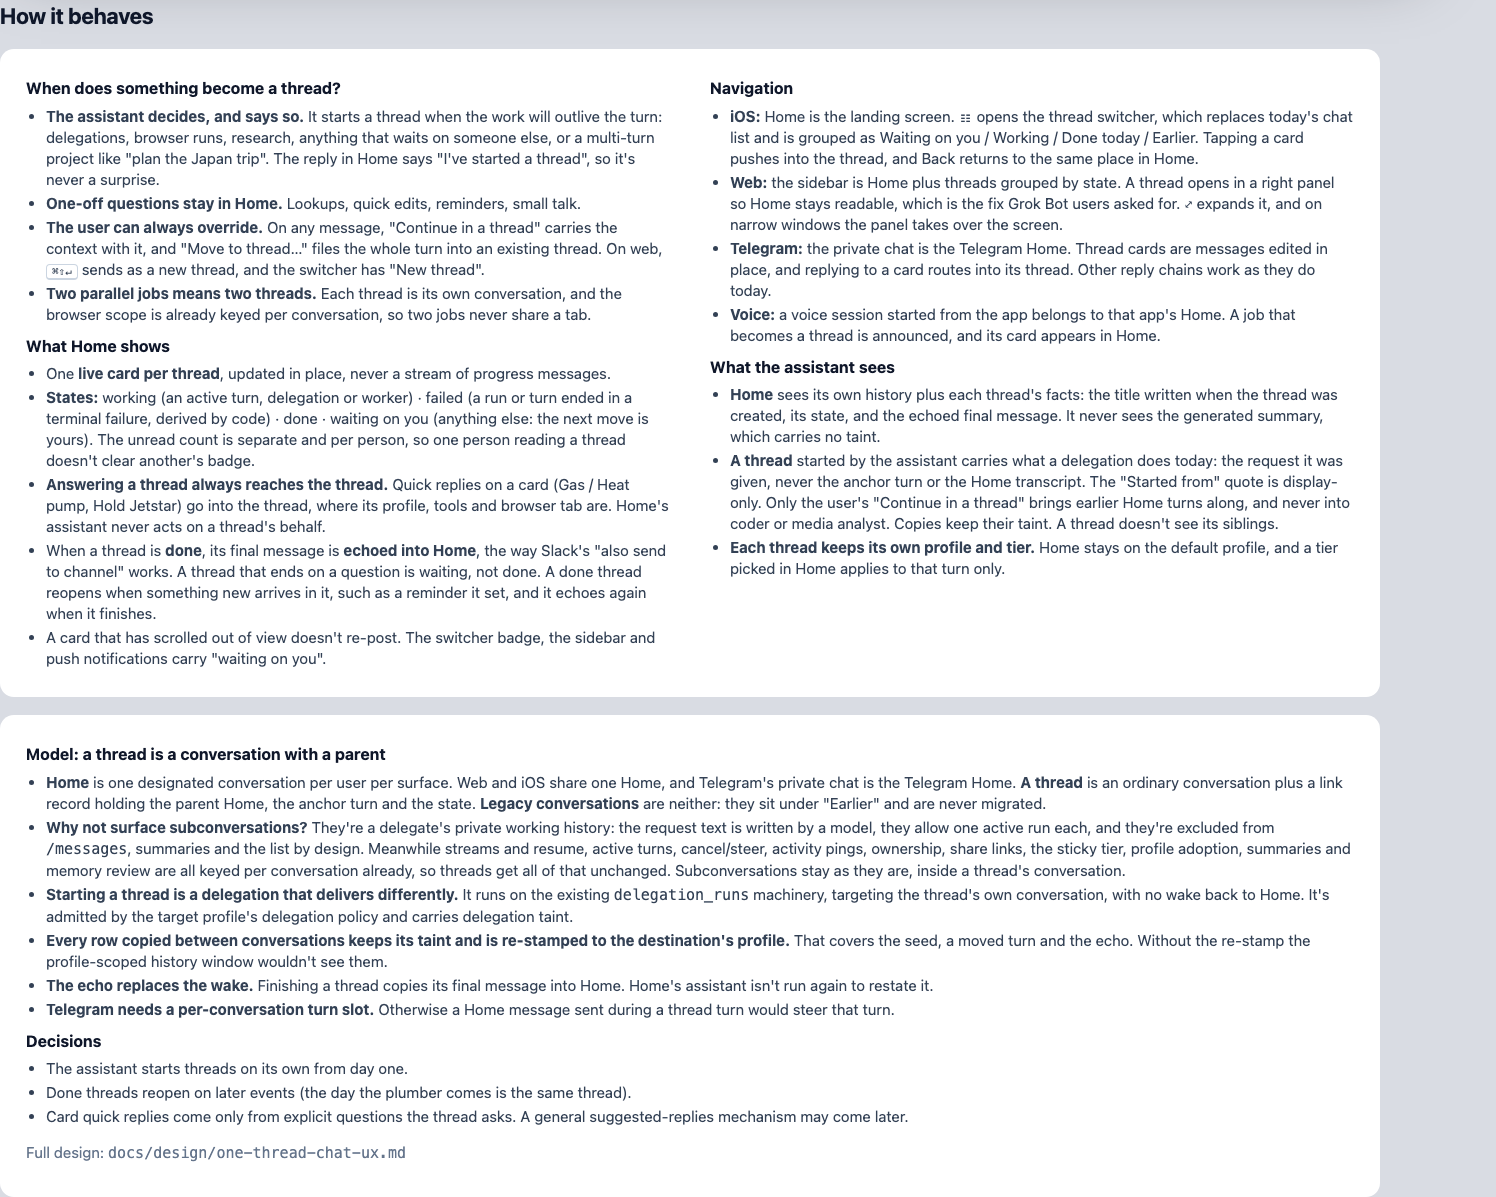
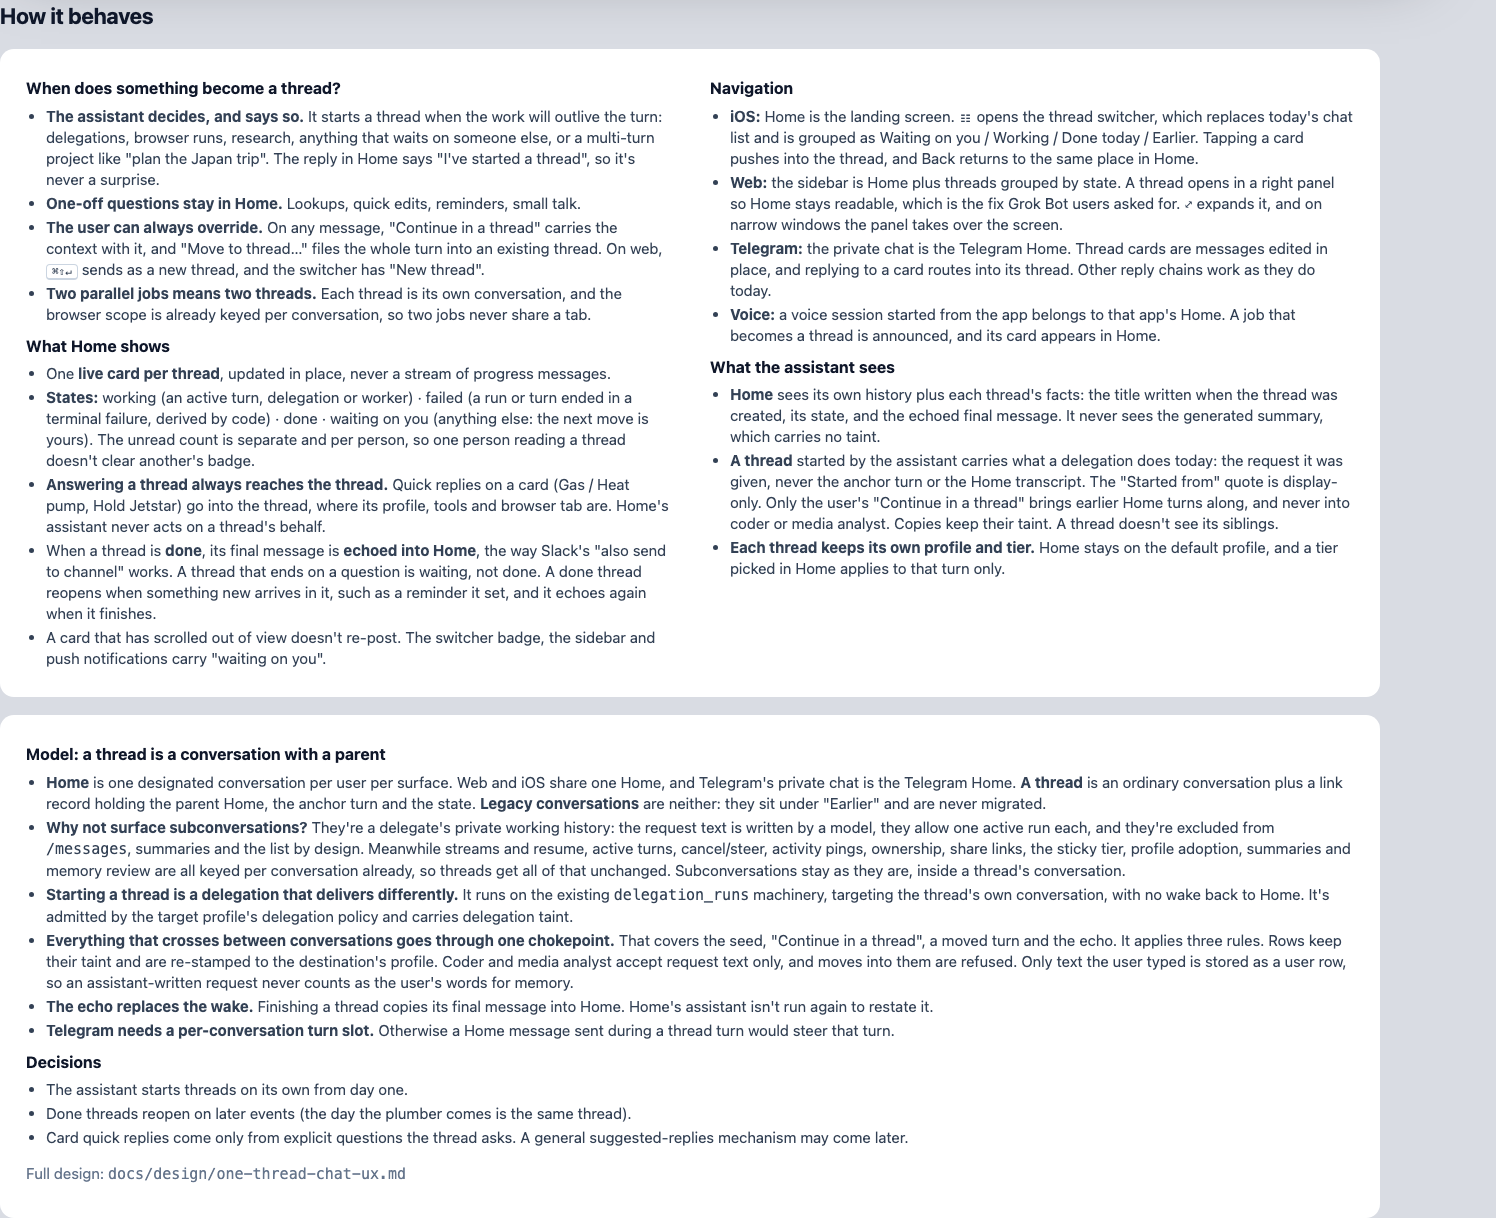
Route all cross-conversation content through one chokepoint
Seeds, continue-in-thread, moved turns and echoes share one gate: taint and
profile re-stamping, a context gate that refuses household content for
profiles that exclude it, and an authorship rule that keeps
assistant-written requests out of user rows and memory evidence.

Changed region(s): [[0.0, 0.0618, 0.9225, 0.9891]]

diff --git a/docs/design/one-thread-ux/mockups.html b/docs/design/one-thread-ux/mockups.html
@@ -529,9 +529,11 @@
       <li><b>Starting a thread is a delegation that delivers differently.</b> It runs on the existing
         <code>delegation_runs</code> machinery, targeting the thread's own conversation, with no wake back to Home.
         It's admitted by the target profile's delegation policy and carries delegation taint.</li>
-      <li><b>Every row copied between conversations keeps its taint and is re-stamped to the destination's
-        profile.</b> That covers the seed, a moved turn and the echo. Without the re-stamp the profile-scoped
-        history window wouldn't see them.</li>
+      <li><b>Everything that crosses between conversations goes through one chokepoint.</b> That covers the
+        seed, "Continue in a thread", a moved turn and the echo. It applies three rules. Rows keep their taint and
+        are re-stamped to the destination's profile. Coder and media analyst accept request text only, and moves
+        into them are refused. Only text the user typed is stored as a user row, so an assistant-written request
+        never counts as the user's words for memory.</li>
       <li><b>The echo replaces the wake.</b> Finishing a thread copies its final message into Home. Home's assistant
         isn't run again to restate it.</li>
       <li><b>Telegram needs a per-conversation turn slot.</b> Otherwise a Home message sent during a thread turn

diff --git a/docs/design/one-thread-chat-ux.md b/docs/design/one-thread-chat-ux.md
@@ -135,7 +135,8 @@ a thread from the client is a user choice, like picking a profile today.
 
 **User actions use the same path.** "Continue in a thread" and "New thread" go through the same
 creation path, with a user-written opening message. "Move to thread…" moves a whole turn (the user
-message with its tool rows and reply), never a single row.
+message with its tool rows and reply), never a single row. All of them pass the chokepoint described
+under "Moving content across the boundary".
 
 **When to thread is guidance in the prompt, not code.** The default profile's prompt describes when
 a thread earns its place. The user's override is always one action away, so a wrong call is cheap.
@@ -144,10 +145,22 @@ Threads do not nest. A thread can delegate but cannot start threads.
 
 ### Moving content across the boundary
 
-Three paths move rows between conversations: the seed copied into a new thread, a turn moved with
-"Move to thread…", and the echo copied into Home. All three follow one rule. **Copied rows keep
-their taint and are re-stamped to the destination's profile**, because the history window is scoped
-by profile and an unstamped row would be invisible there.
+Four paths carry rows between conversations: an assistant-started seed, a user's "Continue in a
+thread", a turn moved with "Move to thread…", and the echo copied into Home. **All four go through
+one chokepoint**, so a path added later can't skip a rule. It applies three rules:
+
+1. **Taint and profile.** Copied rows keep their taint and are re-stamped to the destination's
+   profile, because the history window is scoped by profile and an unstamped row would be invisible
+   there.
+2. **The context gate.** A destination whose profile excludes household context (`coder`,
+   `media_analyst`, via `excluded_context_providers`) accepts only request text. Any path that would
+   carry Home turns, their tool output included, into such a profile is refused. That means
+   "Continue in a thread" with context, and "Move to thread…". The client offers only compatible
+   destinations.
+3. **Authorship.** Only text the user typed is stored as a user row. A request the assistant wrote
+   to open a thread is stored as an assistant-authored request, shown in the thread as "Assistant
+   asked: …". It therefore neither counts as user activity for memory review nor serves as evidence
+   of what the user said.
 
 - **The seed follows the delegation boundary.** An assistant-started thread carries exactly what a
   delegation carries today: the request its starting turn wrote, plus any attachments it passed
@@ -157,10 +170,9 @@ by profile and an unstamped row would be invisible there.
   contains. The thread's "Started from" quote is drawn by the client from the link record. It is
   never part of the thread's model history. Only the user's own "Continue in a thread" copies the
   anchor and the Home turns leading up to it, as a deliberate choice to bring that context along,
-  and only into a profile that already receives household context. A profile that excludes it
-  (`coder`, `media_analyst`, via `excluded_context_providers`) gets the request only, whoever starts
-  the thread. A seed is copied rather than read across conversations at every turn, so the thread's
-  history doesn't depend on Home's later compaction or edits.
+  and only into a profile that already receives household context (rule 2 above). A seed is copied
+  rather than read across conversations at every turn, so the thread's history doesn't depend on
+  Home's later compaction or edits.
 - **Home sees its threads as facts, not transcripts.** Home's assistant sees each live thread's
   title, state and, once it finishes, the echoed final message. That is enough to answer "how are
   the quotes going?" without merging histories. **Generated conversation summaries are never used
@@ -214,10 +226,11 @@ and each path is governed:
 
 - **Starting a thread** is admitted by the target profile's delegation policy, and the request
   carries delegation taint.
-- **Copied rows** keep their taint. An assistant-started thread is seeded with no more than a
-  delegation carries: the request and its explicit attachments. Home context goes only where the
-  user chose to bring it with "Continue in a thread", the same as pasting it into that profile's
-  chat today. It never goes to a profile that excludes household context.
+- **Everything crossing a conversation boundary passes one chokepoint.** Copied rows keep their
+  taint. A profile that excludes household context accepts request text only, and moves into it are
+  refused. An assistant-started seed holds no more than a delegation carries, which is the request
+  and its explicit attachments. Assistant-written text is never stored as the user's words, so it
+  can't become memory evidence.
 - **Home's view of a thread** is a title (carrying its creating turn's taint), a code-derived or
   explicitly set state, and echoes (carrying their source's taint). Generated summaries never reach
   a prompt.
@@ -254,6 +267,8 @@ and each path is governed:
    - The target's delegation policy is enforced.
    - Seeded rows are visible to the thread's history window and keep their taint.
    - Coder receives no seed.
+   - Moving a Home turn into a coder thread is refused.
+   - An assistant-written request is not a user row, and doesn't make memory review due.
    - An assistant-started seed holds only the request.
    - A message sent before the first turn starts steers it.
 2. **Home on web.** Add Home as the landing view, thread cards, the grouped sidebar and the
